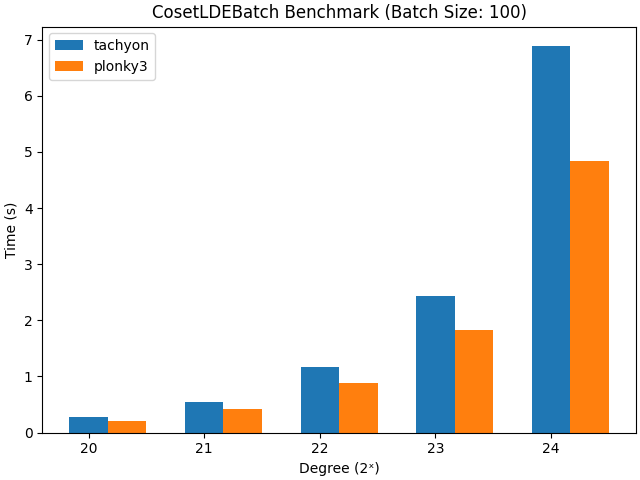
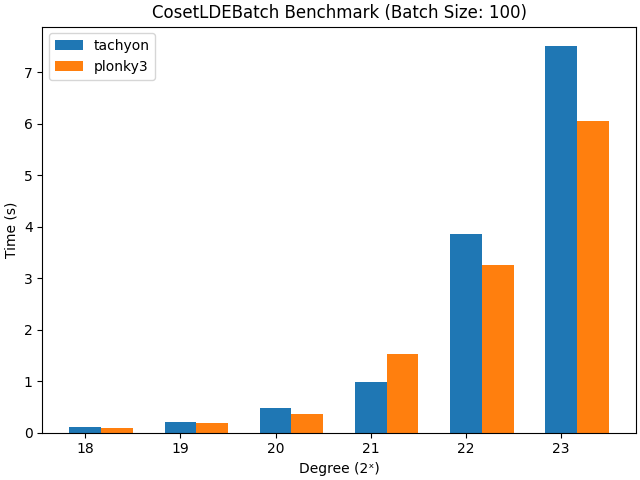
test(benchmark): use appropriate parameters for `CosetLDEBatch`

diff --git a/benchmark/fft_batch/plonky3/src/lib.rs b/benchmark/fft_batch/plonky3/src/lib.rs
@@ -34,15 +34,16 @@ pub extern "C" fn run_coset_lde_batch_plonky3_baby_bear(
     duration: *mut u64,
 ) -> *mut CppBabyBear {
     let size = n * batch_size;
-    let values: Vec<BabyBear> = unsafe { Vec::from_raw_parts(data as *mut BabyBear, size, size) };
+    let values: Vec<BabyBear> =
+        unsafe { std::slice::from_raw_parts(data as *mut BabyBear, size).to_vec() };
 
     let messages = RowMajorMatrix::<BabyBear>::new(values, batch_size);
     let dft = Radix2DitParallel::default();
 
     let start = Instant::now();
-    let shift = BabyBear::zero();
+    let shift = BabyBear::generator();
     let dft_result = dft
-        .coset_lde_batch(messages, 0, shift)
+        .coset_lde_batch(messages, 1, shift)
         .to_row_major_matrix();
     unsafe {
         duration.write(start.elapsed().as_micros() as u64);

diff --git a/benchmark/fft_batch/fft_batch_runner.h b/benchmark/fft_batch/fft_batch_runner.h
@@ -37,7 +37,8 @@ class FFTBatchRunner {
         Domain::Create(static_cast<size_t>(input.rows()));
     base::TimeTicks start = base::TimeTicks::Now();
     if (run_coset_lde) {
-      result = domain->CosetLDEBatch(result, 0, F::Zero());
+      result = result = domain->CosetLDEBatch(
+          result, 1, F::FromMontgomery(F::Config::kSubgroupGenerator));
     } else {
       domain->FFTBatch(result);
     }

diff --git a/benchmark/fft_batch/README.md b/benchmark/fft_batch/README.md
@@ -54,7 +54,7 @@ WARNING: On Mac M3, tests beyond degree 24 are not feasible due to memory constr
 ### CosetLDEBatch
 
 ```shell
-bazel run -c opt --//:has_openmp --//:has_rtti --//:has_matplotlib //benchmark/fft_batch:fft_batch_benchmark -- -k 20 -k 21 -k 22 -k 23 -k 24 -k 25 -k 26 --vendor plonky3 -p baby_bear --run_coset_lde --check_results
+bazel run -c opt --//:has_openmp --//:has_rtti --//:has_matplotlib //benchmark/fft_batch:fft_batch_benchmark -- -k 20 -k 21 -k 22 -k 23 -k 24 -k 25 --vendor plonky3 -p baby_bear --run_coset_lde --check_results
 ```
 
 WARNING: On Mac M3, tests beyond degree 24 are not feasible due to memory constraints.
@@ -63,24 +63,24 @@ WARNING: On Mac M3, tests beyond degree 24 are not feasible due to memory constr
 
 | Exponent | Tachyon      | Plonky3  |
 | :------- | ------------ | -------- |
-| 20       | **0.241410** | 0.396681 |
-| 21       | **0.480885** | 0.794424 |
-| 22       | **0.978230** | 1.60685  |
-| 23       | **2.005920** | 3.48347  |
-| 24       | **4.615940** | 7.89591  |
-| 25       | **12.62420** | 22.158   |
-| 26       | **35.45570** | 56.9609  |
+| 20       | **0.414096** | 0.783275 |
+| 21       | **0.828539** | 1.47701  |
+| 22       | **1.784080** | 3.06198  |
+| 23       | **3.673930** | 6.49181  |
+| 24       | **9.325390** | 16.2383  |
+| 25       | **25.66560** | 41.3335  |
 
 ![image](/benchmark/fft_batch/coset_lde_batch_benchmark_ubuntu_i9.png)
 
 #### On Mac M3 Pro
 
-| Exponent | Tachyon   | Plonky3      |
-| :------- | --------- | ------------ |
-| 20       | 0.269538  | **0.204846** |
-| 21       | 0.543247  | **0.414618** |
-| 22       | 1.15925   | **0.877114** |
-| 23       | 2.43017   | **1.835210** |
-| 24       | 6.89016   | **4.846630** |
+| Exponent | Tachyon      | Plonky3      |
+| :------- | ------------ | ------------ |
+| 18       | 0.100942     | **0.086087** |
+| 19       | 0.214471     | **0.182212** |
+| 20       | 0.481229     | **0.359246** |
+| 21       | **0.981806** | 1.518190     |
+| 22       | 3.86094      | **3.244580** |
+| 23       | 7.50879      | **6.052250** |
 
 ![image](/benchmark/fft_batch/coset_lde_batch_benchmark_mac_m3.png)
